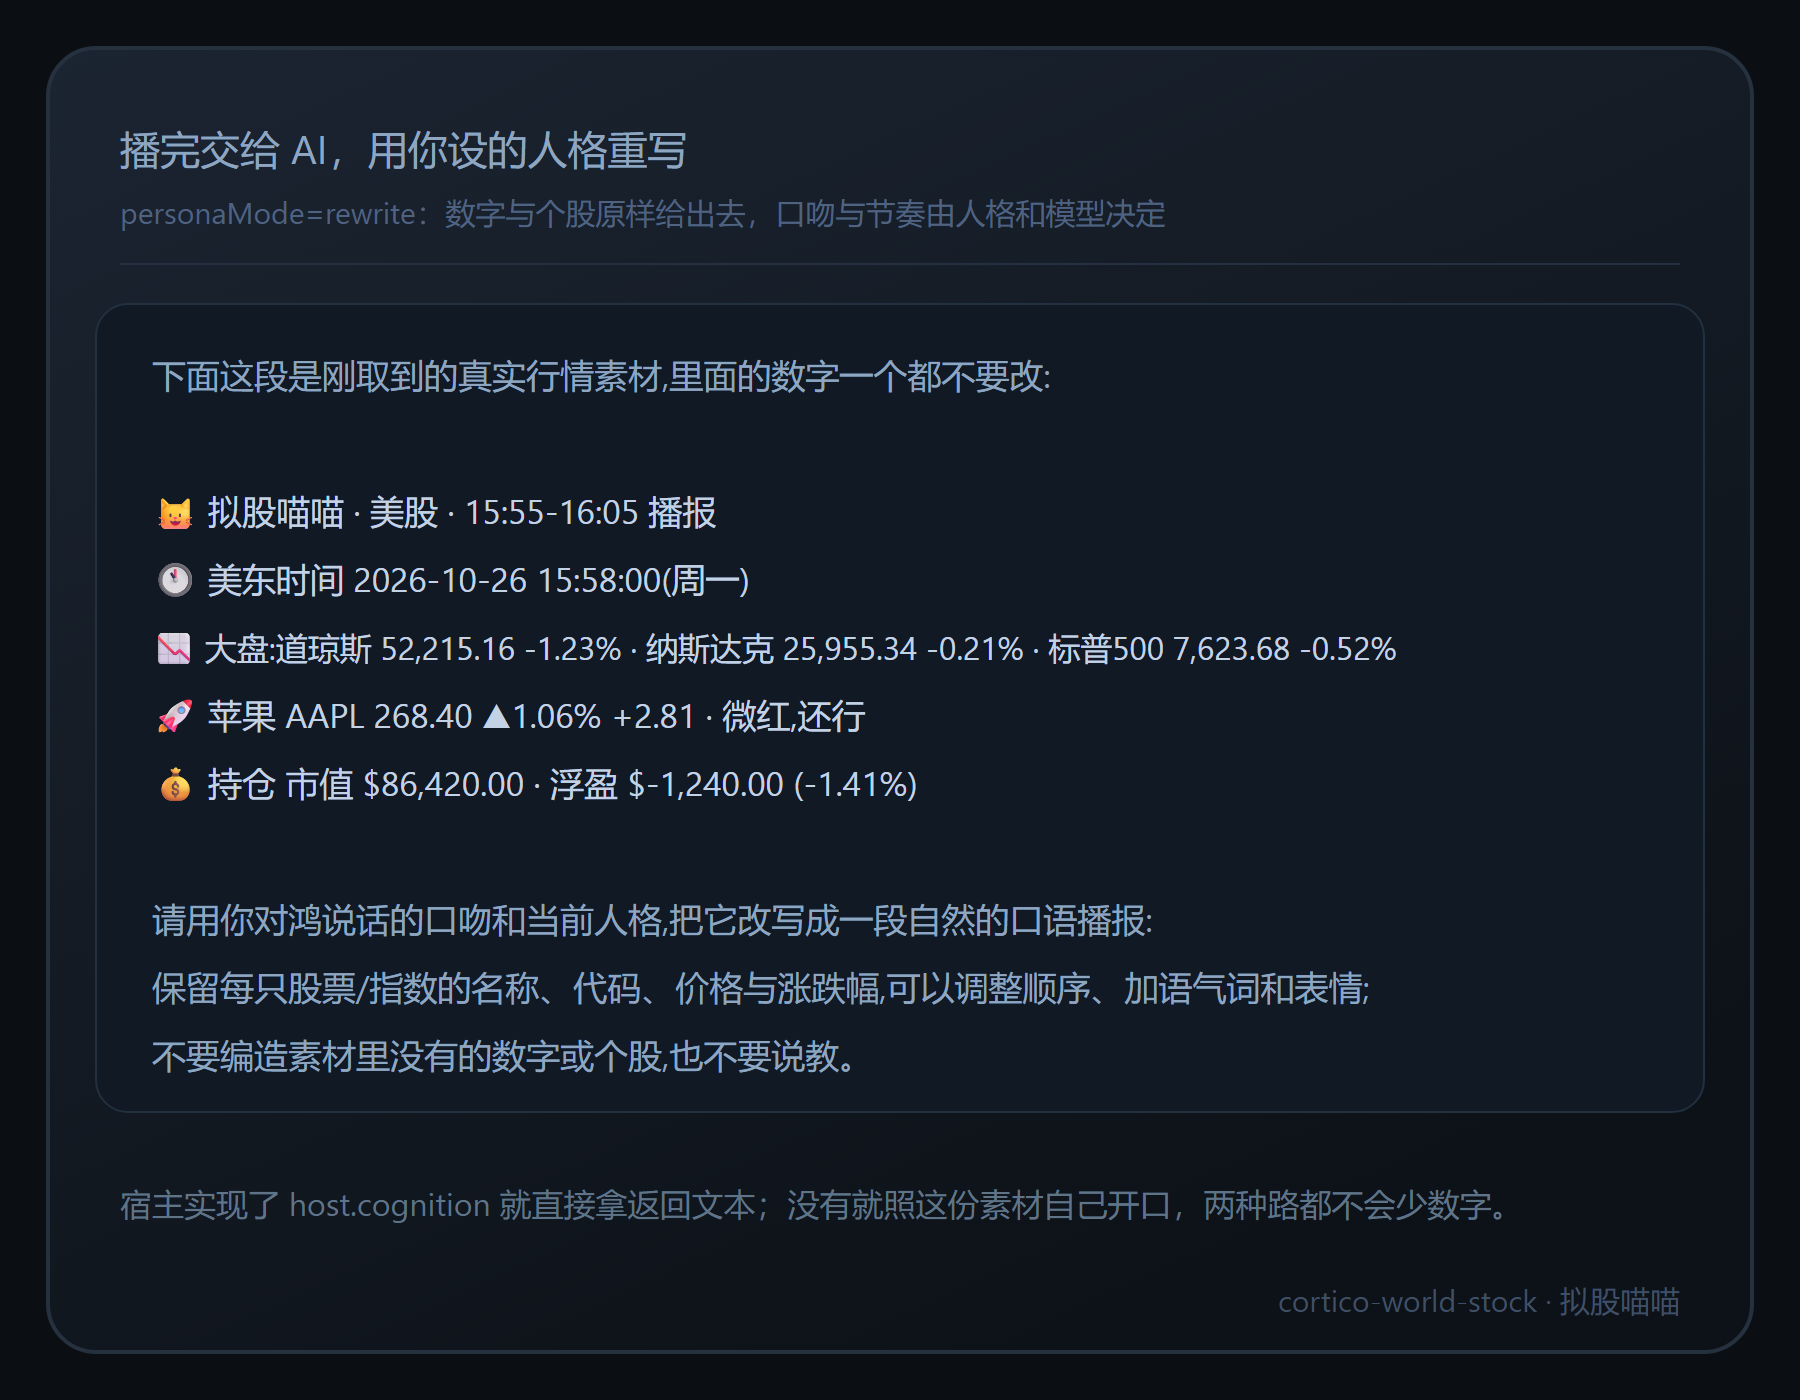
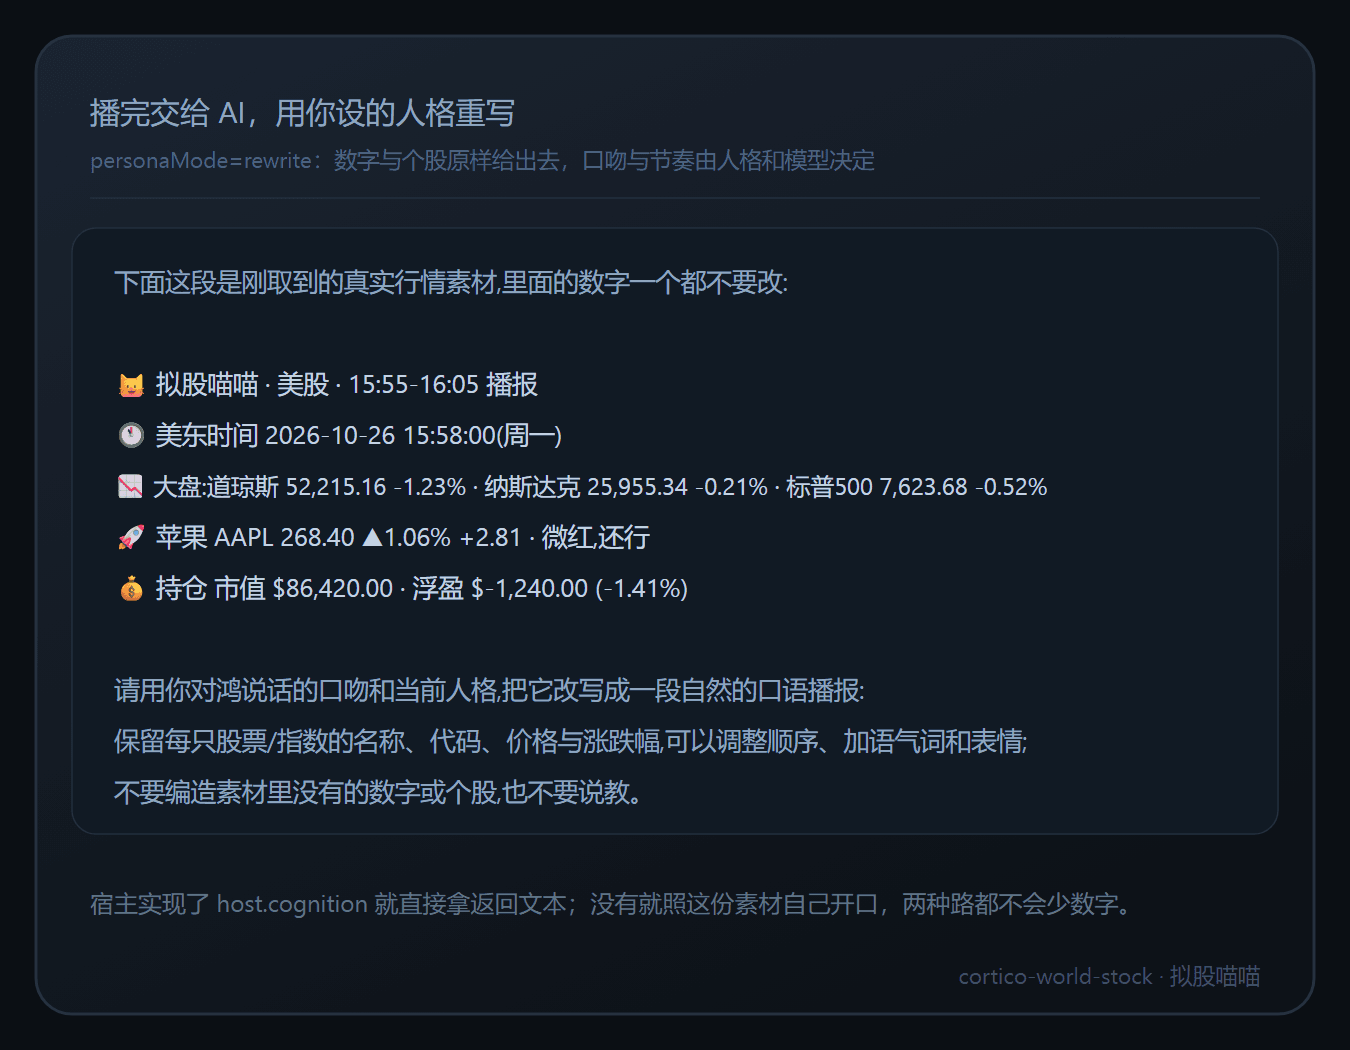
收紧包体积:截图重渲 1350 宽并调色板量化(2.33MB->270kB),补 repository/homepage/bugs(0.2.2)

diff --git a/CHANGELOG.md b/CHANGELOG.md
@@ -2,11 +2,14 @@
 
 ## 0.2.2
 
-发布元数据对齐：补 `LICENSE` 正文并把它加进 `files`，声明 MIT 的同时把许可证随包带上；
-补 `author` 字段并统一成「苏鸿与维基 (suhong11300)」，市场卡片与 npm 页面显示作者名，不再回退到 npm 账号名。
+发布元数据与包体积对齐：
+
+- 补 `LICENSE` 正文并把它加进 `files`，声明 MIT 的同时把许可证随包带上。
+- 补 `author` 字段并统一成「苏鸿与维基 (suhong11300)」，市场卡片与 npm 页面显示作者名，不再回退到 npm 账号名。
+- 市场截图重渲为 1350 宽（等效 1.5×）并做调色板量化：四张合计 2.33 MB → 270 kB，文字与 emoji 仍清晰。
+- 补 `repository` / `homepage` / `bugs`，指向 github.com/suhong11300/cortico-world-stock。
 
 代码与上一版完全一致，不涉及行为变化。
-
 ## 0.2.1
 
 简介改为正式说明体：先一句定位，再用分号分列能力与边界，去掉口语化措辞与第二人称。
